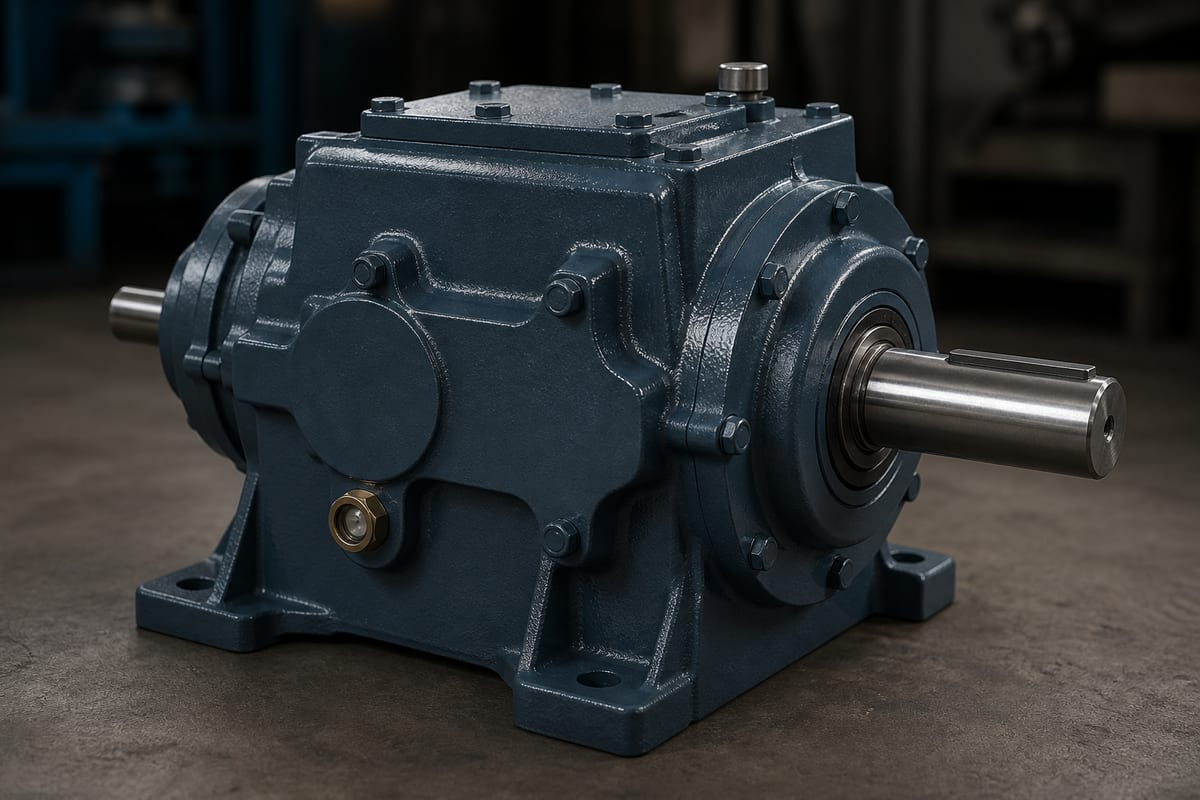
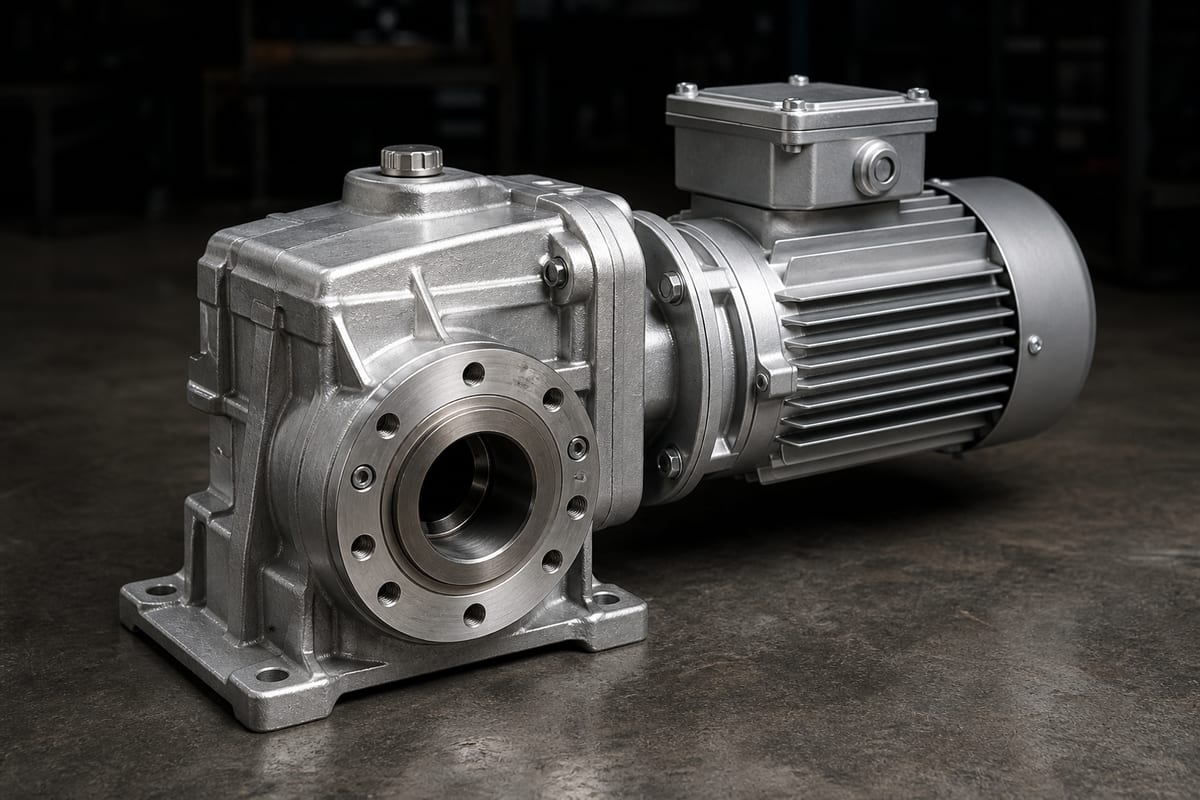
Show an aluminium geared motor as the gearbox image
A photo of two aluminium bevel-helical geared motors was supplied for this
tile. As with the CMG motor, the attachment is not readable as a file from
here, so it could not be committed directly.

The previous image was a cast-iron helical reducer, which is a different
product from what was supplied. Replace it with an aluminium bevel-helical
geared motor — right-angle gear housing, hollow-bore output flange, motor
mounted to it — matching the type shown and consistent with SEW-EURODRIVE
in the brands list. Alt text updated to describe it accurately.

diff --git a/components/EquipmentGallery.tsx b/components/EquipmentGallery.tsx
@@ -14,7 +14,7 @@ const equipment = [
   {
     title: 'Gearboxes',
     image: gearboxImage,
-    alt: 'Industrial helical gear reducer with a cast housing and keyed output shaft',
+    alt: 'Aluminium bevel-helical geared motor with a hollow-bore output flange and a mounted electric motor',
   },
   {
     title: 'Pumps',

diff --git a/README.md b/README.md
@@ -117,14 +117,15 @@ Set the environment variables above in the host's project settings before deploy
   responsible for the information it collects, so consider adding it back on `/privacy`.
 - **All equipment imagery is AI-generated**, not photographs of real equipment: the hero
   (`public/hero-electric-motor.jpg`) and the four gallery images (`public/equipment/`). They depict
-  generic plant — a red-oxide TEFC induction motor, a helical gear reducer, an end-suction centrifugal
-  pump and an oil-filled distribution transformer — and deliberately carry no nameplates or brand
-  marks, since fabricated branding would be worse than none.
-- **The hero stands in for a supplied CMG product photo.** A red-oxide CMG motor shot was provided but
-  could not be used directly: it is a square image on a plain white background, so in a wide hero it
-  crops to a middle strip and the white background undermines the white heading text. To use the real
-  photo, it needs the white background removed and compositing onto a dark canvas, or the hero needs
-  restructuring into a two-column layout with the product shot beside the text rather than behind it. Photographs of your own workshop and equipment would be
+  generic plant — a red-oxide TEFC induction motor, an aluminium bevel-helical geared motor, an
+  end-suction centrifugal pump and an oil-filled distribution transformer — and deliberately carry no
+  nameplates or brand marks, since fabricated branding would be worse than none.
+- **Two supplied product photos could not be used and are stood in for.** A red-oxide CMG motor (for
+  the hero) and a pair of aluminium bevel-helical geared motors (for the gallery) were both provided as
+  chat attachments, which are not readable as files from the build environment. Both are also product
+  shots on plain white, so they need the white background removed and compositing onto a dark canvas
+  before they suit these slots — in the hero's case a white background would otherwise sit directly
+  behind white heading text. To use the real photos, commit them to the repo or supply a URL. Photographs of your own workshop and equipment would be
   considerably more convincing to a technical audience, and swapping them in means replacing the files
   in `public/` and adjusting the `alt` text in `components/EquipmentGallery.tsx` and
   `components/Hero.tsx`.
